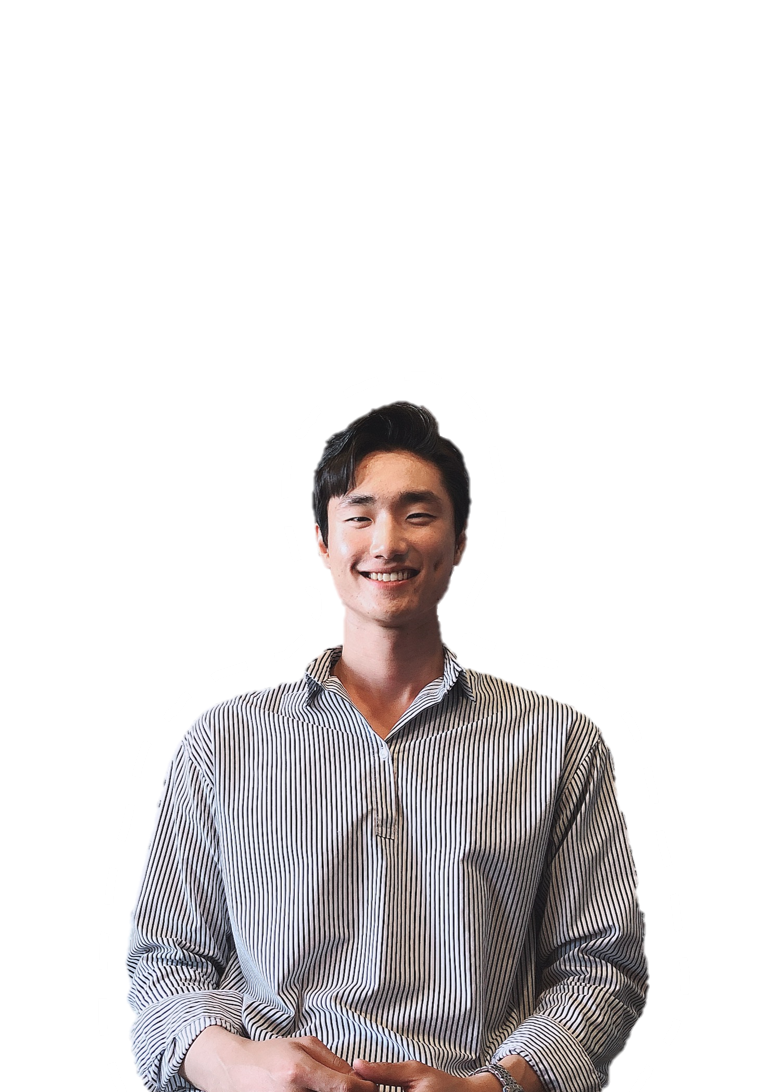
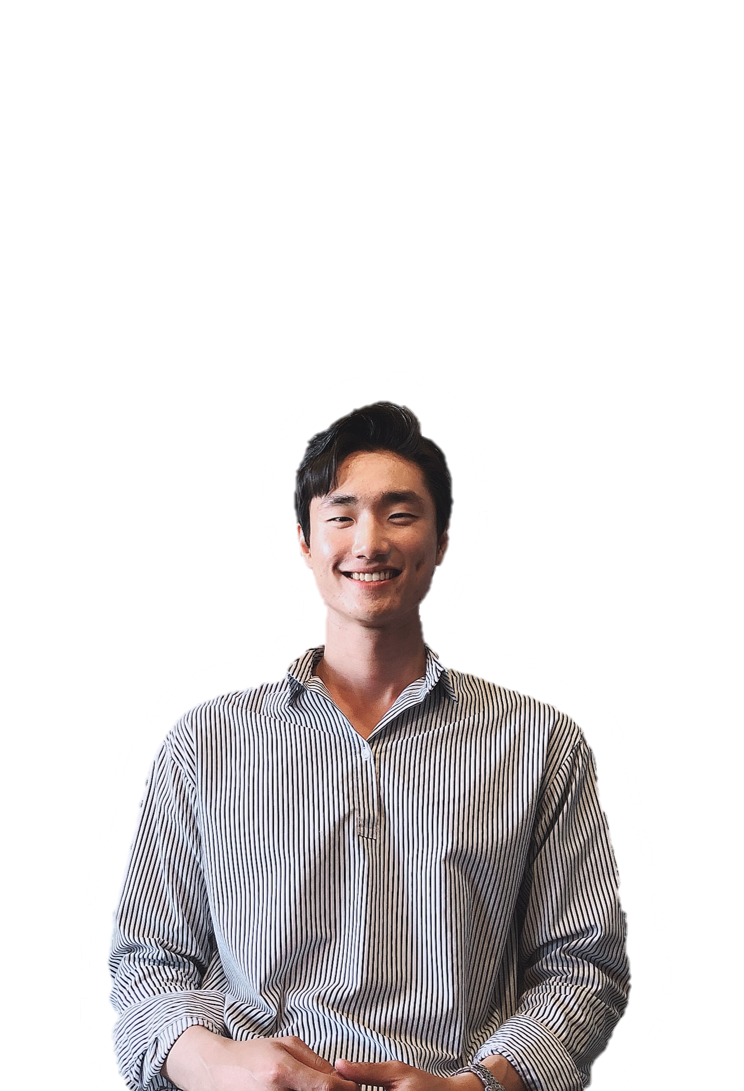
second

Changed region(s): [[0.1237, 0.3428, 0.8656, 1.0]]

diff --git a/bundle.2055f83f56a1a7dbafd1.js b/bundle.2055f83f56a1a7dbafd1.js
@@ -115,7 +115,7 @@ eval("__webpack_require__.r(__webpack_exports__);\n/* harmony export */ __webpac
 /***/ ((module, __webpack_exports__, __webpack_require__) => {
 
 "use strict";
-eval("__webpack_require__.r(__webpack_exports__);\n/* harmony export */ __webpack_require__.d(__webpack_exports__, {\n/* harmony export */   \"default\": () => (__WEBPACK_DEFAULT_EXPORT__)\n/* harmony export */ });\n/* harmony import */ var react__WEBPACK_IMPORTED_MODULE_0__ = __webpack_require__(/*! react */ \"./node_modules/react/index.js\");\n/* harmony import */ var styled_components__WEBPACK_IMPORTED_MODULE_2__ = __webpack_require__(/*! styled-components */ \"./node_modules/styled-components/dist/styled-components.browser.esm.js\");\n/* harmony import */ var _images_cheoljin4_png__WEBPACK_IMPORTED_MODULE_1__ = __webpack_require__(/*! @images/cheoljin4.png */ \"./src/assets/images/cheoljin4.png\");\n/* module decorator */ module = __webpack_require__.hmd(module);\n(function () {\n  var enterModule = typeof reactHotLoaderGlobal !== 'undefined' ? reactHotLoaderGlobal.enterModule : undefined;\n  enterModule && enterModule(module);\n})();\n\nvar __signature__ = typeof reactHotLoaderGlobal !== 'undefined' ? reactHotLoaderGlobal[\"default\"].signature : function (a) {\n  return a;\n};\n\n\n\n\nvar FirstStyle = styled_components__WEBPACK_IMPORTED_MODULE_2__.default.article.withConfig({\n  displayName: \"First__FirstStyle\",\n  componentId: \"egsxn3-0\"\n})([\"display:flex;align-items:center;justify-content:center;width:100%;height:100vh;background-color:#9370db;.container{width:60%;display:flex;flex-direction:column;align-items:flex-start;p{margin:0;color:white;font-weight:600;}#name{margin-bottom:1rem;}#job{font-size:6rem;}}.me{position:absolute;right:10%;bottom:0;width:600px;height:100vh;transform:translateY(-200vh);background-size:cover;background-repeat:no-repeat;background-position:center;}\"]);\n\nvar First = function First() {\n  return /*#__PURE__*/react__WEBPACK_IMPORTED_MODULE_0__.createElement(FirstStyle, null, /*#__PURE__*/react__WEBPACK_IMPORTED_MODULE_0__.createElement(\"div\", {\n    className: \"container\"\n  }, /*#__PURE__*/react__WEBPACK_IMPORTED_MODULE_0__.createElement(\"p\", {\n    id: \"name\"\n  }, \"CHEOLJIN HEO\"), /*#__PURE__*/react__WEBPACK_IMPORTED_MODULE_0__.createElement(\"div\", {\n    id: \"job\"\n  }, /*#__PURE__*/react__WEBPACK_IMPORTED_MODULE_0__.createElement(\"p\", null, \"I'm Blockchain\"), /*#__PURE__*/react__WEBPACK_IMPORTED_MODULE_0__.createElement(\"p\", null, \"Developer ;\"))), /*#__PURE__*/react__WEBPACK_IMPORTED_MODULE_0__.createElement(\"div\", {\n    className: \"me\",\n    style: {\n      backgroundImage: \"url(\".concat(_images_cheoljin4_png__WEBPACK_IMPORTED_MODULE_1__.default, \")\")\n    }\n  }));\n};\n\nvar _default = First;\n/* harmony default export */ const __WEBPACK_DEFAULT_EXPORT__ = (_default);\n;\n\n(function () {\n  var reactHotLoader = typeof reactHotLoaderGlobal !== 'undefined' ? reactHotLoaderGlobal.default : undefined;\n\n  if (!reactHotLoader) {\n    return;\n  }\n\n  reactHotLoader.register(FirstStyle, \"FirstStyle\", \"C:\\\\Dev\\\\\\uD3EC\\uD2B8\\uD3F4\\uB9AC\\uC6242\\\\src\\\\components\\\\Home\\\\First.js\");\n  reactHotLoader.register(First, \"First\", \"C:\\\\Dev\\\\\\uD3EC\\uD2B8\\uD3F4\\uB9AC\\uC6242\\\\src\\\\components\\\\Home\\\\First.js\");\n  reactHotLoader.register(_default, \"default\", \"C:\\\\Dev\\\\\\uD3EC\\uD2B8\\uD3F4\\uB9AC\\uC6242\\\\src\\\\components\\\\Home\\\\First.js\");\n})();\n\n;\n\n(function () {\n  var leaveModule = typeof reactHotLoaderGlobal !== 'undefined' ? reactHotLoaderGlobal.leaveModule : undefined;\n  leaveModule && leaveModule(module);\n})();\n\n//# sourceURL=webpack://fegeni/./src/components/Home/First.js?");
+eval("__webpack_require__.r(__webpack_exports__);\n/* harmony export */ __webpack_require__.d(__webpack_exports__, {\n/* harmony export */   \"default\": () => (__WEBPACK_DEFAULT_EXPORT__)\n/* harmony export */ });\n/* harmony import */ var react__WEBPACK_IMPORTED_MODULE_0__ = __webpack_require__(/*! react */ \"./node_modules/react/index.js\");\n/* harmony import */ var styled_components__WEBPACK_IMPORTED_MODULE_2__ = __webpack_require__(/*! styled-components */ \"./node_modules/styled-components/dist/styled-components.browser.esm.js\");\n/* harmony import */ var _images_cheoljin4_png__WEBPACK_IMPORTED_MODULE_1__ = __webpack_require__(/*! @images/cheoljin4.png */ \"./src/assets/images/cheoljin4.png\");\n/* module decorator */ module = __webpack_require__.hmd(module);\n(function () {\n  var enterModule = typeof reactHotLoaderGlobal !== 'undefined' ? reactHotLoaderGlobal.enterModule : undefined;\n  enterModule && enterModule(module);\n})();\n\nvar __signature__ = typeof reactHotLoaderGlobal !== 'undefined' ? reactHotLoaderGlobal[\"default\"].signature : function (a) {\n  return a;\n};\n\n\n\n\nvar FirstStyle = styled_components__WEBPACK_IMPORTED_MODULE_2__.default.article.withConfig({\n  displayName: \"First__FirstStyle\",\n  componentId: \"egsxn3-0\"\n})([\"display:flex;align-items:center;justify-content:center;width:100%;height:100vh;background-color:#9370db;.container{width:60%;display:flex;flex-direction:column;align-items:flex-start;z-index:1;transition:all 0.3s ease-in-out;p{margin:0;color:white;font-weight:600;}#name{margin-bottom:1rem;}#job{font-size:6rem;}}.me{position:absolute;right:10%;width:600px;height:100vh;background-size:cover;background-repeat:no-repeat;background-position:center bottom;transition:all 0.5s ease-in-out;}@media (max-width:1400px){.container{width:80%;}.me{right:0;}}@media (max-width:1100px){align-items:flex-start;.container{transform:translateY(270px);display:flex;flex-direction:column;align-items:center;z-index:1;#name{font-size:0.8rem;}#job{font-size:4rem;}}.me{left:50%;background-size:70%;transform:translateX(-305px);}}@media (max-width:500px){.container{min-width:350px;#job{font-size:3rem;}}.me{background-size:50%;background-position:bottom;}}\"]);\n\nvar First = function First() {\n  return /*#__PURE__*/react__WEBPACK_IMPORTED_MODULE_0__.createElement(FirstStyle, null, /*#__PURE__*/react__WEBPACK_IMPORTED_MODULE_0__.createElement(\"div\", {\n    className: \"container\"\n  }, /*#__PURE__*/react__WEBPACK_IMPORTED_MODULE_0__.createElement(\"p\", {\n    id: \"name\"\n  }, \"CHEOLJIN HEO\"), /*#__PURE__*/react__WEBPACK_IMPORTED_MODULE_0__.createElement(\"div\", {\n    id: \"job\"\n  }, /*#__PURE__*/react__WEBPACK_IMPORTED_MODULE_0__.createElement(\"p\", null, \"I'm Blockchain\"), /*#__PURE__*/react__WEBPACK_IMPORTED_MODULE_0__.createElement(\"p\", null, \"Developer ;\"))), /*#__PURE__*/react__WEBPACK_IMPORTED_MODULE_0__.createElement(\"div\", {\n    className: \"me\",\n    style: {\n      backgroundImage: \"url(\".concat(_images_cheoljin4_png__WEBPACK_IMPORTED_MODULE_1__.default, \")\")\n    }\n  }));\n};\n\nvar _default = First;\n/* harmony default export */ const __WEBPACK_DEFAULT_EXPORT__ = (_default);\n;\n\n(function () {\n  var reactHotLoader = typeof reactHotLoaderGlobal !== 'undefined' ? reactHotLoaderGlobal.default : undefined;\n\n  if (!reactHotLoader) {\n    return;\n  }\n\n  reactHotLoader.register(FirstStyle, \"FirstStyle\", \"C:\\\\Dev\\\\\\uD3EC\\uD2B8\\uD3F4\\uB9AC\\uC6242\\\\src\\\\components\\\\Home\\\\First.js\");\n  reactHotLoader.register(First, \"First\", \"C:\\\\Dev\\\\\\uD3EC\\uD2B8\\uD3F4\\uB9AC\\uC6242\\\\src\\\\components\\\\Home\\\\First.js\");\n  reactHotLoader.register(_default, \"default\", \"C:\\\\Dev\\\\\\uD3EC\\uD2B8\\uD3F4\\uB9AC\\uC6242\\\\src\\\\components\\\\Home\\\\First.js\");\n})();\n\n;\n\n(function () {\n  var leaveModule = typeof reactHotLoaderGlobal !== 'undefined' ? reactHotLoaderGlobal.leaveModule : undefined;\n  leaveModule && leaveModule(module);\n})();\n\n//# sourceURL=webpack://fegeni/./src/components/Home/First.js?");
 
 /***/ }),
 
@@ -247,7 +247,7 @@ eval("__webpack_require__.r(__webpack_exports__);\n/* harmony export */ __webpac
 /***/ ((module, __webpack_exports__, __webpack_require__) => {
 
 "use strict";
-eval("__webpack_require__.r(__webpack_exports__);\n/* harmony export */ __webpack_require__.d(__webpack_exports__, {\n/* harmony export */   \"default\": () => (__WEBPACK_DEFAULT_EXPORT__)\n/* harmony export */ });\n/* harmony import */ var react__WEBPACK_IMPORTED_MODULE_0__ = __webpack_require__(/*! react */ \"./node_modules/react/index.js\");\n/* harmony import */ var styled_components__WEBPACK_IMPORTED_MODULE_9__ = __webpack_require__(/*! styled-components */ \"./node_modules/styled-components/dist/styled-components.browser.esm.js\");\n/* harmony import */ var _TheQuizLive_Overview__WEBPACK_IMPORTED_MODULE_1__ = __webpack_require__(/*! ./TheQuizLive/Overview */ \"./src/components/Projects/TheQuizLive/Overview.js\");\n/* harmony import */ var _TheQuizLive_Goal__WEBPACK_IMPORTED_MODULE_2__ = __webpack_require__(/*! ./TheQuizLive/Goal */ \"./src/components/Projects/TheQuizLive/Goal.js\");\n/* harmony import */ var _TheQuizLive_Process__WEBPACK_IMPORTED_MODULE_3__ = __webpack_require__(/*! ./TheQuizLive/Process */ \"./src/components/Projects/TheQuizLive/Process.js\");\n/* harmony import */ var _TheQuizLive_Used__WEBPACK_IMPORTED_MODULE_4__ = __webpack_require__(/*! ./TheQuizLive/Used */ \"./src/components/Projects/TheQuizLive/Used.js\");\n/* harmony import */ var _TheQuizLive_Architecture__WEBPACK_IMPORTED_MODULE_5__ = __webpack_require__(/*! ./TheQuizLive/Architecture */ \"./src/components/Projects/TheQuizLive/Architecture.js\");\n/* harmony import */ var _TheQuizLive_UI__WEBPACK_IMPORTED_MODULE_6__ = __webpack_require__(/*! ./TheQuizLive/UI */ \"./src/components/Projects/TheQuizLive/UI.js\");\n/* harmony import */ var _TheQuizLive_Branding__WEBPACK_IMPORTED_MODULE_7__ = __webpack_require__(/*! ./TheQuizLive/Branding */ \"./src/components/Projects/TheQuizLive/Branding.js\");\n/* harmony import */ var _images_theQuizLive2_png__WEBPACK_IMPORTED_MODULE_8__ = __webpack_require__(/*! @images/theQuizLive2.png */ \"./src/assets/images/theQuizLive2.png\");\n/* module decorator */ module = __webpack_require__.hmd(module);\n(function () {\n  var enterModule = typeof reactHotLoaderGlobal !== 'undefined' ? reactHotLoaderGlobal.enterModule : undefined;\n  enterModule && enterModule(module);\n})();\n\nvar __signature__ = typeof reactHotLoaderGlobal !== 'undefined' ? reactHotLoaderGlobal[\"default\"].signature : function (a) {\n  return a;\n};\n\n\n\n\n\n\n\n\n\n\n\nvar TheQuizLiveStyle = styled_components__WEBPACK_IMPORTED_MODULE_9__.default.article.withConfig({\n  displayName: \"TheQuizLive__TheQuizLiveStyle\",\n  componentId: \"jn4xxs-0\"\n})([\"width:100%;display:flex;flex-direction:column;align-items:center;padding-top:200px;color:white;.intro{height:400px;display:flex;flex-direction:column;align-items:center;justify-content:center;.logo{width:400px;}p{margin-top:50px;color:#ec6375;font-size:2.5rem;font-family:Kcc;}}\"]);\n\nvar TheQuizLive = function TheQuizLive() {\n  return /*#__PURE__*/react__WEBPACK_IMPORTED_MODULE_0__.createElement(TheQuizLiveStyle, null, /*#__PURE__*/react__WEBPACK_IMPORTED_MODULE_0__.createElement(\"div\", {\n    className: \"intro\"\n  }, /*#__PURE__*/react__WEBPACK_IMPORTED_MODULE_0__.createElement(\"img\", {\n    className: \"logo\",\n    src: _images_theQuizLive2_png__WEBPACK_IMPORTED_MODULE_8__.default\n  }), /*#__PURE__*/react__WEBPACK_IMPORTED_MODULE_0__.createElement(\"p\", null, \"\\\"\\uB354 \\uC0C8\\uB86D\\uAC8C, \\uB354 \\uC7AC\\uBBF8\\uC788\\uAC8C. \\uB354 \\uD034\\uC988 \\uB77C\\uC774\\uBE0C\\\"\")), /*#__PURE__*/react__WEBPACK_IMPORTED_MODULE_0__.createElement(_TheQuizLive_Overview__WEBPACK_IMPORTED_MODULE_1__.default, null), /*#__PURE__*/react__WEBPACK_IMPORTED_MODULE_0__.createElement(_TheQuizLive_Goal__WEBPACK_IMPORTED_MODULE_2__.default, null), /*#__PURE__*/react__WEBPACK_IMPORTED_MODULE_0__.createElement(_TheQuizLive_Architecture__WEBPACK_IMPORTED_MODULE_5__.default, null), /*#__PURE__*/react__WEBPACK_IMPORTED_MODULE_0__.createElement(_TheQuizLive_Process__WEBPACK_IMPORTED_MODULE_3__.default, null), /*#__PURE__*/react__WEBPACK_IMPORTED_MODULE_0__.createElement(_TheQuizLive_UI__WEBPACK_IMPORTED_MODULE_6__.default, null), /*#__PURE__*/react__WEBPACK_IMPORTED_MODULE_0__.createElement(_TheQuizLive_Used__WEBPACK_IMPORTED_MODULE_4__.default, null), /*#__PURE__*/react__WEBPACK_IMPORTED_MODULE_0__.createElement(_TheQuizLive_Branding__WEBPACK_IMPORTED_MODULE_7__.default, null));\n};\n\nvar _default = TheQuizLive;\n/* harmony default export */ const __WEBPACK_DEFAULT_EXPORT__ = (_default);\n;\n\n(function () {\n  var reactHotLoader = typeof reactHotLoaderGlobal !== 'undefined' ? reactHotLoaderGlobal.default : undefined;\n\n  if (!reactHotLoader) {\n    return;\n  }\n\n  reactHotLoader.register(TheQuizLiveStyle, \"TheQuizLiveStyle\", \"C:\\\\Dev\\\\\\uD3EC\\uD2B8\\uD3F4\\uB9AC\\uC6242\\\\src\\\\components\\\\Projects\\\\TheQuizLive.js\");\n  reactHotLoader.register(TheQuizLive, \"TheQuizLive\", \"C:\\\\Dev\\\\\\uD3EC\\uD2B8\\uD3F4\\uB9AC\\uC6242\\\\src\\\\components\\\\Projects\\\\TheQuizLive.js\");\n  reactHotLoader.register(_default, \"default\", \"C:\\\\Dev\\\\\\uD3EC\\uD2B8\\uD3F4\\uB9AC\\uC6242\\\\src\\\\components\\\\Projects\\\\TheQuizLive.js\");\n})();\n\n;\n\n(function () {\n  var leaveModule = typeof reactHotLoaderGlobal !== 'undefined' ? reactHotLoaderGlobal.leaveModule : undefined;\n  leaveModule && leaveModule(module);\n})();\n\n//# sourceURL=webpack://fegeni/./src/components/Projects/TheQuizLive.js?");
+eval("__webpack_require__.r(__webpack_exports__);\n/* harmony export */ __webpack_require__.d(__webpack_exports__, {\n/* harmony export */   \"default\": () => (__WEBPACK_DEFAULT_EXPORT__)\n/* harmony export */ });\n/* harmony import */ var react__WEBPACK_IMPORTED_MODULE_0__ = __webpack_require__(/*! react */ \"./node_modules/react/index.js\");\n/* harmony import */ var styled_components__WEBPACK_IMPORTED_MODULE_9__ = __webpack_require__(/*! styled-components */ \"./node_modules/styled-components/dist/styled-components.browser.esm.js\");\n/* harmony import */ var _TheQuizLive_Overview__WEBPACK_IMPORTED_MODULE_1__ = __webpack_require__(/*! ./TheQuizLive/Overview */ \"./src/components/Projects/TheQuizLive/Overview.js\");\n/* harmony import */ var _TheQuizLive_Goal__WEBPACK_IMPORTED_MODULE_2__ = __webpack_require__(/*! ./TheQuizLive/Goal */ \"./src/components/Projects/TheQuizLive/Goal.js\");\n/* harmony import */ var _TheQuizLive_Process__WEBPACK_IMPORTED_MODULE_3__ = __webpack_require__(/*! ./TheQuizLive/Process */ \"./src/components/Projects/TheQuizLive/Process.js\");\n/* harmony import */ var _TheQuizLive_Used__WEBPACK_IMPORTED_MODULE_4__ = __webpack_require__(/*! ./TheQuizLive/Used */ \"./src/components/Projects/TheQuizLive/Used.js\");\n/* harmony import */ var _TheQuizLive_Architecture__WEBPACK_IMPORTED_MODULE_5__ = __webpack_require__(/*! ./TheQuizLive/Architecture */ \"./src/components/Projects/TheQuizLive/Architecture.js\");\n/* harmony import */ var _TheQuizLive_UI__WEBPACK_IMPORTED_MODULE_6__ = __webpack_require__(/*! ./TheQuizLive/UI */ \"./src/components/Projects/TheQuizLive/UI.js\");\n/* harmony import */ var _TheQuizLive_Branding__WEBPACK_IMPORTED_MODULE_7__ = __webpack_require__(/*! ./TheQuizLive/Branding */ \"./src/components/Projects/TheQuizLive/Branding.js\");\n/* harmony import */ var _images_theQuizLive3_png__WEBPACK_IMPORTED_MODULE_8__ = __webpack_require__(/*! @images/theQuizLive3.png */ \"./src/assets/images/theQuizLive3.png\");\n/* module decorator */ module = __webpack_require__.hmd(module);\n(function () {\n  var enterModule = typeof reactHotLoaderGlobal !== 'undefined' ? reactHotLoaderGlobal.enterModule : undefined;\n  enterModule && enterModule(module);\n})();\n\nvar __signature__ = typeof reactHotLoaderGlobal !== 'undefined' ? reactHotLoaderGlobal[\"default\"].signature : function (a) {\n  return a;\n};\n\n\n\n\n\n\n\n\n\n\n\nvar TheQuizLiveStyle = styled_components__WEBPACK_IMPORTED_MODULE_9__.default.article.withConfig({\n  displayName: \"TheQuizLive__TheQuizLiveStyle\",\n  componentId: \"jn4xxs-0\"\n})([\"width:100%;display:flex;flex-direction:column;align-items:center;padding-top:200px;color:white;.intro{height:400px;display:flex;flex-direction:column;align-items:center;justify-content:center;.logo{width:350px;}p{margin-top:50px;color:#ec6375;font-size:2.5rem;font-family:Kcc;}}\"]);\n\nvar TheQuizLive = function TheQuizLive() {\n  return /*#__PURE__*/react__WEBPACK_IMPORTED_MODULE_0__.createElement(TheQuizLiveStyle, null, /*#__PURE__*/react__WEBPACK_IMPORTED_MODULE_0__.createElement(\"div\", {\n    className: \"intro\"\n  }, /*#__PURE__*/react__WEBPACK_IMPORTED_MODULE_0__.createElement(\"img\", {\n    className: \"logo\",\n    src: _images_theQuizLive3_png__WEBPACK_IMPORTED_MODULE_8__.default\n  }), /*#__PURE__*/react__WEBPACK_IMPORTED_MODULE_0__.createElement(\"p\", null, \"\\\"\\uB354 \\uC0C8\\uB86D\\uAC8C, \\uB354 \\uC7AC\\uBBF8\\uC788\\uAC8C. \\uB354 \\uD034\\uC988 \\uB77C\\uC774\\uBE0C\\\"\")), /*#__PURE__*/react__WEBPACK_IMPORTED_MODULE_0__.createElement(_TheQuizLive_Overview__WEBPACK_IMPORTED_MODULE_1__.default, null), /*#__PURE__*/react__WEBPACK_IMPORTED_MODULE_0__.createElement(_TheQuizLive_Goal__WEBPACK_IMPORTED_MODULE_2__.default, null), /*#__PURE__*/react__WEBPACK_IMPORTED_MODULE_0__.createElement(_TheQuizLive_Architecture__WEBPACK_IMPORTED_MODULE_5__.default, null), /*#__PURE__*/react__WEBPACK_IMPORTED_MODULE_0__.createElement(_TheQuizLive_Process__WEBPACK_IMPORTED_MODULE_3__.default, null), /*#__PURE__*/react__WEBPACK_IMPORTED_MODULE_0__.createElement(_TheQuizLive_UI__WEBPACK_IMPORTED_MODULE_6__.default, null), /*#__PURE__*/react__WEBPACK_IMPORTED_MODULE_0__.createElement(_TheQuizLive_Used__WEBPACK_IMPORTED_MODULE_4__.default, null), /*#__PURE__*/react__WEBPACK_IMPORTED_MODULE_0__.createElement(_TheQuizLive_Branding__WEBPACK_IMPORTED_MODULE_7__.default, null));\n};\n\nvar _default = TheQuizLive;\n/* harmony default export */ const __WEBPACK_DEFAULT_EXPORT__ = (_default);\n;\n\n(function () {\n  var reactHotLoader = typeof reactHotLoaderGlobal !== 'undefined' ? reactHotLoaderGlobal.default : undefined;\n\n  if (!reactHotLoader) {\n    return;\n  }\n\n  reactHotLoader.register(TheQuizLiveStyle, \"TheQuizLiveStyle\", \"C:\\\\Dev\\\\\\uD3EC\\uD2B8\\uD3F4\\uB9AC\\uC6242\\\\src\\\\components\\\\Projects\\\\TheQuizLive.js\");\n  reactHotLoader.register(TheQuizLive, \"TheQuizLive\", \"C:\\\\Dev\\\\\\uD3EC\\uD2B8\\uD3F4\\uB9AC\\uC6242\\\\src\\\\components\\\\Projects\\\\TheQuizLive.js\");\n  reactHotLoader.register(_default, \"default\", \"C:\\\\Dev\\\\\\uD3EC\\uD2B8\\uD3F4\\uB9AC\\uC6242\\\\src\\\\components\\\\Projects\\\\TheQuizLive.js\");\n})();\n\n;\n\n(function () {\n  var leaveModule = typeof reactHotLoaderGlobal !== 'undefined' ? reactHotLoaderGlobal.leaveModule : undefined;\n  leaveModule && leaveModule(module);\n})();\n\n//# sourceURL=webpack://fegeni/./src/components/Projects/TheQuizLive.js?");
 
 /***/ }),
 
@@ -357,7 +357,7 @@ eval("__webpack_require__.r(__webpack_exports__);\n/* harmony import */ var reac
 /***/ ((module, __webpack_exports__, __webpack_require__) => {
 
 "use strict";
-eval("__webpack_require__.r(__webpack_exports__);\n/* harmony export */ __webpack_require__.d(__webpack_exports__, {\n/* harmony export */   \"default\": () => (__WEBPACK_DEFAULT_EXPORT__)\n/* harmony export */ });\n/* harmony import */ var react__WEBPACK_IMPORTED_MODULE_0__ = __webpack_require__(/*! react */ \"./node_modules/react/index.js\");\n/* harmony import */ var styled_components__WEBPACK_IMPORTED_MODULE_1__ = __webpack_require__(/*! styled-components */ \"./node_modules/styled-components/dist/styled-components.browser.esm.js\");\n/* module decorator */ module = __webpack_require__.hmd(module);\n(function () {\n  var enterModule = typeof reactHotLoaderGlobal !== 'undefined' ? reactHotLoaderGlobal.enterModule : undefined;\n  enterModule && enterModule(module);\n})();\n\nvar __signature__ = typeof reactHotLoaderGlobal !== 'undefined' ? reactHotLoaderGlobal[\"default\"].signature : function (a) {\n  return a;\n};\n\n\n\nvar CopyrightStyle = styled_components__WEBPACK_IMPORTED_MODULE_1__.default.div.withConfig({\n  displayName: \"Copyright__CopyrightStyle\",\n  componentId: \"jqof16-0\"\n})([\"position:fixed;margin:40px 80px;width:100%;bottom:0;left:0;z-index:1;p{color:white;font-size:0.8rem;margin:0;}\"]);\n\nvar Copyright = function Copyright() {\n  return /*#__PURE__*/react__WEBPACK_IMPORTED_MODULE_0__.createElement(CopyrightStyle, null, /*#__PURE__*/react__WEBPACK_IMPORTED_MODULE_0__.createElement(\"p\", null, \"COPYRIGHT 2021. CHEOLJIN HEO.\"), /*#__PURE__*/react__WEBPACK_IMPORTED_MODULE_0__.createElement(\"p\", null, \"ALL RIGHTS RESERVED\"));\n};\n\nvar _default = Copyright;\n/* harmony default export */ const __WEBPACK_DEFAULT_EXPORT__ = (_default);\n;\n\n(function () {\n  var reactHotLoader = typeof reactHotLoaderGlobal !== 'undefined' ? reactHotLoaderGlobal.default : undefined;\n\n  if (!reactHotLoader) {\n    return;\n  }\n\n  reactHotLoader.register(CopyrightStyle, \"CopyrightStyle\", \"C:\\\\Dev\\\\\\uD3EC\\uD2B8\\uD3F4\\uB9AC\\uC6242\\\\src\\\\pages\\\\Copyright.js\");\n  reactHotLoader.register(Copyright, \"Copyright\", \"C:\\\\Dev\\\\\\uD3EC\\uD2B8\\uD3F4\\uB9AC\\uC6242\\\\src\\\\pages\\\\Copyright.js\");\n  reactHotLoader.register(_default, \"default\", \"C:\\\\Dev\\\\\\uD3EC\\uD2B8\\uD3F4\\uB9AC\\uC6242\\\\src\\\\pages\\\\Copyright.js\");\n})();\n\n;\n\n(function () {\n  var leaveModule = typeof reactHotLoaderGlobal !== 'undefined' ? reactHotLoaderGlobal.leaveModule : undefined;\n  leaveModule && leaveModule(module);\n})();\n\n//# sourceURL=webpack://fegeni/./src/pages/Copyright.js?");
+eval("__webpack_require__.r(__webpack_exports__);\n/* harmony export */ __webpack_require__.d(__webpack_exports__, {\n/* harmony export */   \"default\": () => (__WEBPACK_DEFAULT_EXPORT__)\n/* harmony export */ });\n/* harmony import */ var react__WEBPACK_IMPORTED_MODULE_0__ = __webpack_require__(/*! react */ \"./node_modules/react/index.js\");\n/* harmony import */ var styled_components__WEBPACK_IMPORTED_MODULE_1__ = __webpack_require__(/*! styled-components */ \"./node_modules/styled-components/dist/styled-components.browser.esm.js\");\n/* module decorator */ module = __webpack_require__.hmd(module);\n(function () {\n  var enterModule = typeof reactHotLoaderGlobal !== 'undefined' ? reactHotLoaderGlobal.enterModule : undefined;\n  enterModule && enterModule(module);\n})();\n\nvar __signature__ = typeof reactHotLoaderGlobal !== 'undefined' ? reactHotLoaderGlobal[\"default\"].signature : function (a) {\n  return a;\n};\n\n\n\nvar CopyrightStyle = styled_components__WEBPACK_IMPORTED_MODULE_1__.default.div.withConfig({\n  displayName: \"Copyright__CopyrightStyle\",\n  componentId: \"jqof16-0\"\n})([\"position:fixed;margin:40px 80px;width:100%;bottom:0;left:0;z-index:1;p{color:white;font-size:0.8rem;margin:0;}@media (max-width:500px){margin:0;left:0;min-width:500px;transform:rotate(90deg) translate(105px,230px) !important;p{font-size:8px;}}\"]);\n\nvar Copyright = function Copyright() {\n  return /*#__PURE__*/react__WEBPACK_IMPORTED_MODULE_0__.createElement(CopyrightStyle, null, /*#__PURE__*/react__WEBPACK_IMPORTED_MODULE_0__.createElement(\"p\", null, \"COPYRIGHT 2021. CHEOLJIN HEO.\"), /*#__PURE__*/react__WEBPACK_IMPORTED_MODULE_0__.createElement(\"p\", null, \"ALL RIGHTS RESERVED\"));\n};\n\nvar _default = Copyright;\n/* harmony default export */ const __WEBPACK_DEFAULT_EXPORT__ = (_default);\n;\n\n(function () {\n  var reactHotLoader = typeof reactHotLoaderGlobal !== 'undefined' ? reactHotLoaderGlobal.default : undefined;\n\n  if (!reactHotLoader) {\n    return;\n  }\n\n  reactHotLoader.register(CopyrightStyle, \"CopyrightStyle\", \"C:\\\\Dev\\\\\\uD3EC\\uD2B8\\uD3F4\\uB9AC\\uC6242\\\\src\\\\pages\\\\Copyright.js\");\n  reactHotLoader.register(Copyright, \"Copyright\", \"C:\\\\Dev\\\\\\uD3EC\\uD2B8\\uD3F4\\uB9AC\\uC6242\\\\src\\\\pages\\\\Copyright.js\");\n  reactHotLoader.register(_default, \"default\", \"C:\\\\Dev\\\\\\uD3EC\\uD2B8\\uD3F4\\uB9AC\\uC6242\\\\src\\\\pages\\\\Copyright.js\");\n})();\n\n;\n\n(function () {\n  var leaveModule = typeof reactHotLoaderGlobal !== 'undefined' ? reactHotLoaderGlobal.leaveModule : undefined;\n  leaveModule && leaveModule(module);\n})();\n\n//# sourceURL=webpack://fegeni/./src/pages/Copyright.js?");
 
 /***/ }),
 
@@ -368,7 +368,7 @@ eval("__webpack_require__.r(__webpack_exports__);\n/* harmony export */ __webpac
 /***/ ((module, __webpack_exports__, __webpack_require__) => {
 
 "use strict";
-eval("__webpack_require__.r(__webpack_exports__);\n/* harmony export */ __webpack_require__.d(__webpack_exports__, {\n/* harmony export */   \"default\": () => (__WEBPACK_DEFAULT_EXPORT__)\n/* harmony export */ });\n/* harmony import */ var react__WEBPACK_IMPORTED_MODULE_0__ = __webpack_require__(/*! react */ \"./node_modules/react/index.js\");\n/* harmony import */ var react_router_dom__WEBPACK_IMPORTED_MODULE_2__ = __webpack_require__(/*! react-router-dom */ \"./node_modules/react-router-dom/esm/react-router-dom.js\");\n/* harmony import */ var styled_components__WEBPACK_IMPORTED_MODULE_1__ = __webpack_require__(/*! styled-components */ \"./node_modules/styled-components/dist/styled-components.browser.esm.js\");\n/* module decorator */ module = __webpack_require__.hmd(module);\n(function () {\n  var enterModule = typeof reactHotLoaderGlobal !== 'undefined' ? reactHotLoaderGlobal.enterModule : undefined;\n  enterModule && enterModule(module);\n})();\n\nvar __signature__ = typeof reactHotLoaderGlobal !== 'undefined' ? reactHotLoaderGlobal[\"default\"].signature : function (a) {\n  return a;\n};\n\n\n\n\nvar HeaderStyle = styled_components__WEBPACK_IMPORTED_MODULE_1__.default.header.withConfig({\n  displayName: \"Header__HeaderStyle\",\n  componentId: \"sc-59o7b9-0\"\n})([\"position:fixed;padding:40px 80px;width:100%;top:0;left:0;z-index:1;a{text-decoration:none;color:white;}#title{font-size:1.7rem;font-weight:800;}#email{font-size:0.9rem;margin-left:10%;}\"]);\n\nvar Header = function Header() {\n  return /*#__PURE__*/react__WEBPACK_IMPORTED_MODULE_0__.createElement(HeaderStyle, {\n    id: \"header\"\n  }, /*#__PURE__*/react__WEBPACK_IMPORTED_MODULE_0__.createElement(react_router_dom__WEBPACK_IMPORTED_MODULE_2__.Link, {\n    to: \"/\",\n    id: \"title\"\n  }, \"FE.GENI\"), /*#__PURE__*/react__WEBPACK_IMPORTED_MODULE_0__.createElement(\"a\", {\n    href: \"mailto:preview@ajou.ac.kr\",\n    id: \"email\"\n  }, \"PREVIEW@AJOU.AC.KR\"));\n};\n\nvar _default = Header;\n/* harmony default export */ const __WEBPACK_DEFAULT_EXPORT__ = (_default);\n;\n\n(function () {\n  var reactHotLoader = typeof reactHotLoaderGlobal !== 'undefined' ? reactHotLoaderGlobal.default : undefined;\n\n  if (!reactHotLoader) {\n    return;\n  }\n\n  reactHotLoader.register(HeaderStyle, \"HeaderStyle\", \"C:\\\\Dev\\\\\\uD3EC\\uD2B8\\uD3F4\\uB9AC\\uC6242\\\\src\\\\pages\\\\Header.js\");\n  reactHotLoader.register(Header, \"Header\", \"C:\\\\Dev\\\\\\uD3EC\\uD2B8\\uD3F4\\uB9AC\\uC6242\\\\src\\\\pages\\\\Header.js\");\n  reactHotLoader.register(_default, \"default\", \"C:\\\\Dev\\\\\\uD3EC\\uD2B8\\uD3F4\\uB9AC\\uC6242\\\\src\\\\pages\\\\Header.js\");\n})();\n\n;\n\n(function () {\n  var leaveModule = typeof reactHotLoaderGlobal !== 'undefined' ? reactHotLoaderGlobal.leaveModule : undefined;\n  leaveModule && leaveModule(module);\n})();\n\n//# sourceURL=webpack://fegeni/./src/pages/Header.js?");
+eval("__webpack_require__.r(__webpack_exports__);\n/* harmony export */ __webpack_require__.d(__webpack_exports__, {\n/* harmony export */   \"default\": () => (__WEBPACK_DEFAULT_EXPORT__)\n/* harmony export */ });\n/* harmony import */ var react__WEBPACK_IMPORTED_MODULE_0__ = __webpack_require__(/*! react */ \"./node_modules/react/index.js\");\n/* harmony import */ var react_router_dom__WEBPACK_IMPORTED_MODULE_2__ = __webpack_require__(/*! react-router-dom */ \"./node_modules/react-router-dom/esm/react-router-dom.js\");\n/* harmony import */ var styled_components__WEBPACK_IMPORTED_MODULE_1__ = __webpack_require__(/*! styled-components */ \"./node_modules/styled-components/dist/styled-components.browser.esm.js\");\n/* module decorator */ module = __webpack_require__.hmd(module);\n(function () {\n  var enterModule = typeof reactHotLoaderGlobal !== 'undefined' ? reactHotLoaderGlobal.enterModule : undefined;\n  enterModule && enterModule(module);\n})();\n\nvar __signature__ = typeof reactHotLoaderGlobal !== 'undefined' ? reactHotLoaderGlobal[\"default\"].signature : function (a) {\n  return a;\n};\n\n\n\n\nvar HeaderStyle = styled_components__WEBPACK_IMPORTED_MODULE_1__.default.header.withConfig({\n  displayName: \"Header__HeaderStyle\",\n  componentId: \"sc-59o7b9-0\"\n})([\"position:fixed;padding:40px 80px;width:100%;top:0;left:0;z-index:1;a{text-decoration:none;color:white;}#title{font-size:1.7rem;font-weight:800;}#email{font-size:0.9rem;margin-left:10%;}@media (max-width:500px){padding:40px 40px;transition:all 0.5s ease-in-out;#title{font-size:1.5rem;}#email{font-size:0.8rem;}}\"]);\n\nvar Header = function Header() {\n  return /*#__PURE__*/react__WEBPACK_IMPORTED_MODULE_0__.createElement(HeaderStyle, {\n    id: \"header\"\n  }, /*#__PURE__*/react__WEBPACK_IMPORTED_MODULE_0__.createElement(react_router_dom__WEBPACK_IMPORTED_MODULE_2__.Link, {\n    to: \"/\",\n    id: \"title\"\n  }, \"FE.GENI\"), /*#__PURE__*/react__WEBPACK_IMPORTED_MODULE_0__.createElement(\"a\", {\n    href: \"mailto:preview@ajou.ac.kr\",\n    id: \"email\"\n  }, \"PREVIEW@AJOU.AC.KR\"));\n};\n\nvar _default = Header;\n/* harmony default export */ const __WEBPACK_DEFAULT_EXPORT__ = (_default);\n;\n\n(function () {\n  var reactHotLoader = typeof reactHotLoaderGlobal !== 'undefined' ? reactHotLoaderGlobal.default : undefined;\n\n  if (!reactHotLoader) {\n    return;\n  }\n\n  reactHotLoader.register(HeaderStyle, \"HeaderStyle\", \"C:\\\\Dev\\\\\\uD3EC\\uD2B8\\uD3F4\\uB9AC\\uC6242\\\\src\\\\pages\\\\Header.js\");\n  reactHotLoader.register(Header, \"Header\", \"C:\\\\Dev\\\\\\uD3EC\\uD2B8\\uD3F4\\uB9AC\\uC6242\\\\src\\\\pages\\\\Header.js\");\n  reactHotLoader.register(_default, \"default\", \"C:\\\\Dev\\\\\\uD3EC\\uD2B8\\uD3F4\\uB9AC\\uC6242\\\\src\\\\pages\\\\Header.js\");\n})();\n\n;\n\n(function () {\n  var leaveModule = typeof reactHotLoaderGlobal !== 'undefined' ? reactHotLoaderGlobal.leaveModule : undefined;\n  leaveModule && leaveModule(module);\n})();\n\n//# sourceURL=webpack://fegeni/./src/pages/Header.js?");
 
 /***/ }),
 
@@ -1928,14 +1928,14 @@ eval("__webpack_require__.r(__webpack_exports__);\n/* harmony export */ __webpac
 
 /***/ }),
 
-/***/ "./src/assets/images/theQuizLive2.png":
+/***/ "./src/assets/images/theQuizLive3.png":
 /*!********************************************!*\
-  !*** ./src/assets/images/theQuizLive2.png ***!
+  !*** ./src/assets/images/theQuizLive3.png ***!
   \********************************************/
 /***/ ((__unused_webpack_module, __webpack_exports__, __webpack_require__) => {
 
 "use strict";
-eval("__webpack_require__.r(__webpack_exports__);\n/* harmony export */ __webpack_require__.d(__webpack_exports__, {\n/* harmony export */   \"default\": () => (__WEBPACK_DEFAULT_EXPORT__)\n/* harmony export */ });\n/* harmony default export */ const __WEBPACK_DEFAULT_EXPORT__ = (__webpack_require__.p + \"images/theQuizLive2.png\");\n\n//# sourceURL=webpack://fegeni/./src/assets/images/theQuizLive2.png?");
+eval("__webpack_require__.r(__webpack_exports__);\n/* harmony export */ __webpack_require__.d(__webpack_exports__, {\n/* harmony export */   \"default\": () => (__WEBPACK_DEFAULT_EXPORT__)\n/* harmony export */ });\n/* harmony default export */ const __WEBPACK_DEFAULT_EXPORT__ = (__webpack_require__.p + \"images/theQuizLive3.png\");\n\n//# sourceURL=webpack://fegeni/./src/assets/images/theQuizLive3.png?");
 
 /***/ }),
 
@@ -2105,7 +2105,7 @@ eval("__webpack_require__.r(__webpack_exports__);\n/* harmony export */ __webpac
 /******/ 	
 /******/ 	/* webpack/runtime/getFullHash */
 /******/ 	(() => {
-/******/ 		__webpack_require__.h = () => ("f002250c3c1dc7a24279")
+/******/ 		__webpack_require__.h = () => ("5872ab60b136e41dc44f")
 /******/ 	})();
 /******/ 	
 /******/ 	/* webpack/runtime/global */

diff --git a/index.html b/index.html
@@ -1,1 +1,1 @@
-<!doctype html> <html lang="en"> <head> <meta charset="UTF-8"> <meta name="viewport" content="width=device-width,user-scalable=no,initial-scale=1,maximum-scale=1,minimum-scale=1"> <meta http-equiv="X-UA-Compatible" content="ie=edge"> <meta name="author" content="Heo Cheoljin"> <meta name="description" content="BlockChain 개발자, 허철진의 포트폴리오 사이트입니다."> <title>BlockChain Developer, 허철진</title> <script defer src="./bundle.0c1397ffd1f990ac2c48.js"></script></head> <body> <div id="root"></div> </body> </html>
+<!doctype html> <html lang="en"> <head> <meta charset="UTF-8"> <meta name="viewport" content="width=device-width,user-scalable=no,initial-scale=1,maximum-scale=1,minimum-scale=1"> <meta http-equiv="X-UA-Compatible" content="ie=edge"> <meta name="author" content="Heo Cheoljin"> <meta name="description" content="BlockChain 개발자, 허철진의 포트폴리오 사이트입니다."> <title>BlockChain Developer, 허철진</title> <script defer src="/bundle.2055f83f56a1a7dbafd1.js"></script></head> <body> <div id="root"></div> </body> </html>
